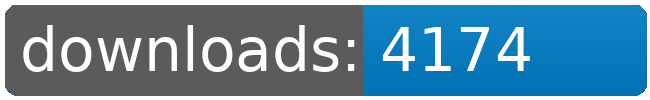
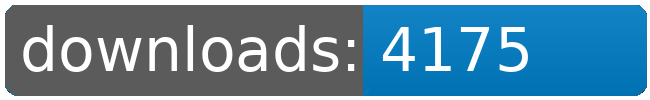
dl log written

Changed region(s): [[0.7692, 0.27, 0.8308, 0.72]]

diff --git a/README.md b/README.md
@@ -21,8 +21,8 @@
 		<td>4130</td>
 		<td>4152</td>
 		<td>4173</td>
-		<td>4174</td>
-		<td>+ 1</td>
+		<td>4175</td>
+		<td>+ 2</td>
 	</tr>
 	<tr>
 		<td>Factory.Outlets</td>
@@ -109,8 +109,8 @@
 		<td></td>
 		<td></td>
 		<td></td>
-		<td>34644</td>
-		<td>6</td>
+		<td>34645</td>
+		<td>7</td>
 	</tr>
 </table>
 </sub></sup>
@@ -168,8 +168,8 @@
 		<td>4130</td>
 		<td>4152</td>
 		<td>4173</td>
-		<td>4174</td>
-		<td>+ 1</td>
+		<td>4175</td>
+		<td>+ 2</td>
 	</tr>
 	<tr>
 		<td>Solar.Sails</td>
@@ -223,8 +223,8 @@
 		<td></td>
 		<td></td>
 		<td></td>
-		<td>34644</td>
-		<td>6</td>
+		<td>34645</td>
+		<td>7</td>
 	</tr>
 </table>
 </sub></sup>
